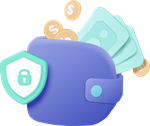
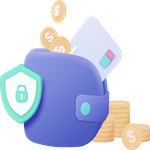
Completed Hero section and feature of website section

diff --git a/style.css b/style.css
@@ -10,7 +10,7 @@
 }
 
 h1 {
-    font-size: 50px;
+    font-size: 54px;
     line-height: 64px;
     color: #222222;
 }
@@ -77,7 +77,7 @@ body {
 
 .navbar li a {
     text-decoration: none;
-    font-size: 16px;
+    font-size: 18px;
     font-weight: 600;
     color: #1a1a1a;
     transition: 0.3s ease;
@@ -116,7 +116,6 @@ body {
 }
 
 #hero .left-col {
-    padding-top: 100px;
     padding: 0 80px;
 }
 
@@ -124,9 +123,15 @@ body {
     padding-bottom: 15px;
 }
 
+#hero .left-col h2 {
+    font-weight: 600;
+    font-size: 65px;
+}
+
 #hero .left-col h1 {
     color: #088178;
     font-weight: 700;
+    font-size: 80px;
 }
 
 /* Feature Section Style */
@@ -153,7 +158,57 @@ body {
     border-bottom: 2px solid #088178;
 }
 
+#feature .feauter-box img {
+    margin-bottom: 10px;
+    transition-duration: 0.3s;
+}
+
+#feature .feauter-box img:hover {
+    transform: scale(1.05);
+}
+
 #feature .feauter-box h6 {
     margin-top: 10px;
-    color: #1a1a1a;
+    padding: 7px 20px;
+    color: #088178;
+    background-color: #fddde4;
+    display: inline-block;
+    border-radius: 5px;
+    line-height: 1;
+}
+
+#feature .feauter-box:nth-child(2) h6 {
+    background-color: #e3e6f3;
+}
+
+#feature .feauter-box:nth-child(3) h6 {
+    background-color: #91fdc1;
+}
+
+#feature .feauter-box:nth-child(4) h6 {
+    background-color: #91ddfd;
+}
+
+#feature .feauter-box:nth-child(5) h6 {
+    background-color: #fbe59a;
+}
+
+#feature .feauter-box:nth-child(6) h6 {
+    background-color: #efabfe;
+}
+
+/* Featured Product Section */
+#featured-products {
+    text-align: center;
+}
+
+#featured-products h2 {
+    font-size: 46px;
+    font-weight: 600;
+}
+
+#featured-products p {
+    font-size: 18px;
+    font-weight: 500;
+    margin-bottom: 20px;
 }

diff --git a/index.html b/index.html
@@ -5,6 +5,7 @@
     <meta charset="UTF-8">
     <meta name="viewport" content="width=device-width, initial-scale=1.0">
     <title>Shopping Here</title>
+    <link rel="icon" type="image/x-icon" href="./src/store24feviconlogo.jpg">
 
     <!-- Font Awesome CDN link -->
     <link rel="stylesheet" href="https://cdnjs.cloudflare.com/ajax/libs/font-awesome/6.6.0/css/all.min.css" />
@@ -74,7 +75,30 @@
         </div>
     </section>
 
+    <!-- Featured Product Section -->
+    <section id="featured-products" class="section-p1">
+        <h2>Featured Products</h2>
+        <p>Summer Collections <i class="fa-regular fa-face-smile"></i> New Model Design </p>
+        <div class="product-container">
+            <div class="product">
+                <img src="./src/FeaturedProImg/mftT1_1.jpg" alt="">
+                <div class="desc">
+                    <span>Mufti</span>
+                    <h5>Light Blue Floral Print Slim Fit Polo</h5>
+                    <div class="star-rating">
+                        <i class="fas fa-star"></i>
+                        <i class="fas fa-star"></i>
+                        <i class="fas fa-star"></i>
+                        <i class="fas fa-star"></i>
+                        <i class="fas fa-star"></i>
+                    </div>
+                    <h4>&#8377; 2,299</h4>
+                </div>
+                <a href=""><i class="fa-solid fa-cart-shopping"></i></a>
+            </div>
+        </div>
 
+    </section>
 
 
 
